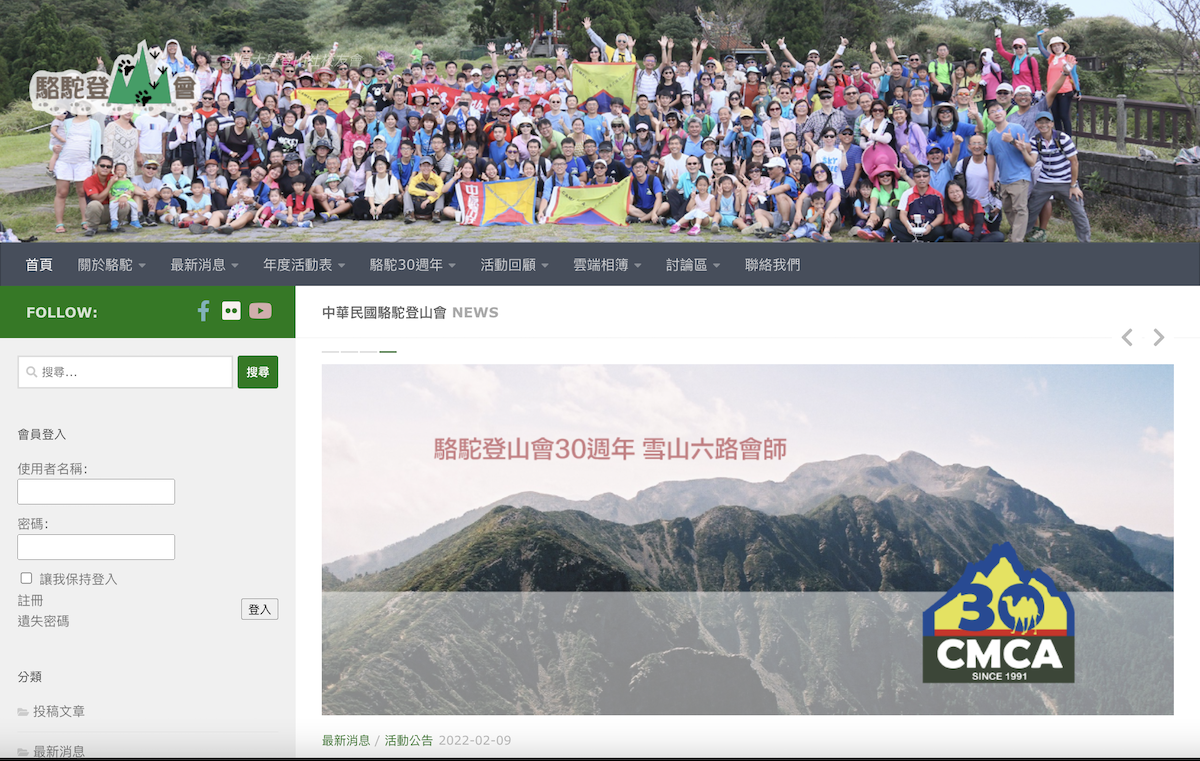
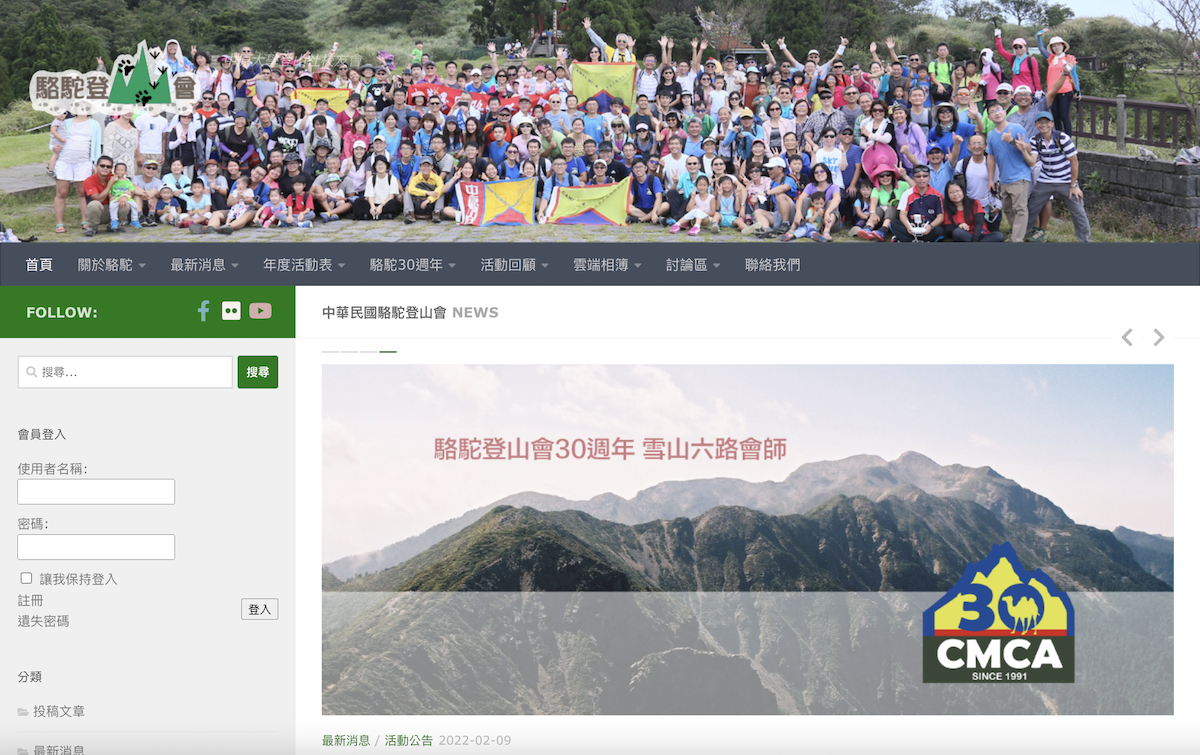
edit image detial and modified page

diff --git a/public/stylesheets/style.css b/public/stylesheets/style.css
@@ -12,6 +12,10 @@ p{
   color: darkslategray;
 }
 
+a{
+  text-decoration: none;  
+}
+
 li{
   font-size: 1.2em;
   line-height: 1.4em;
